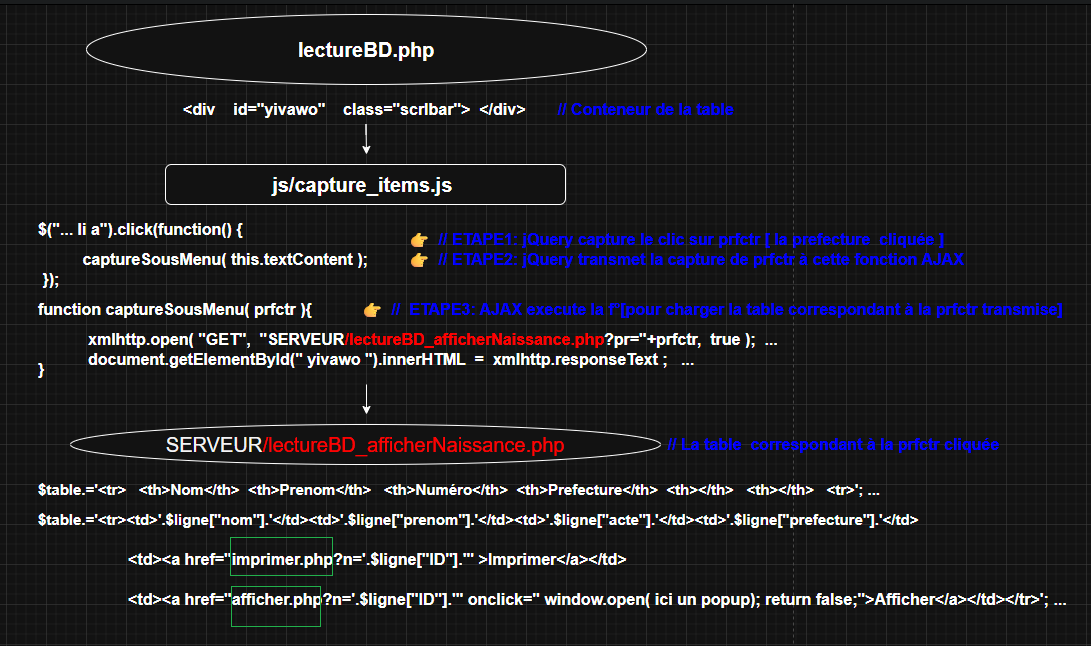
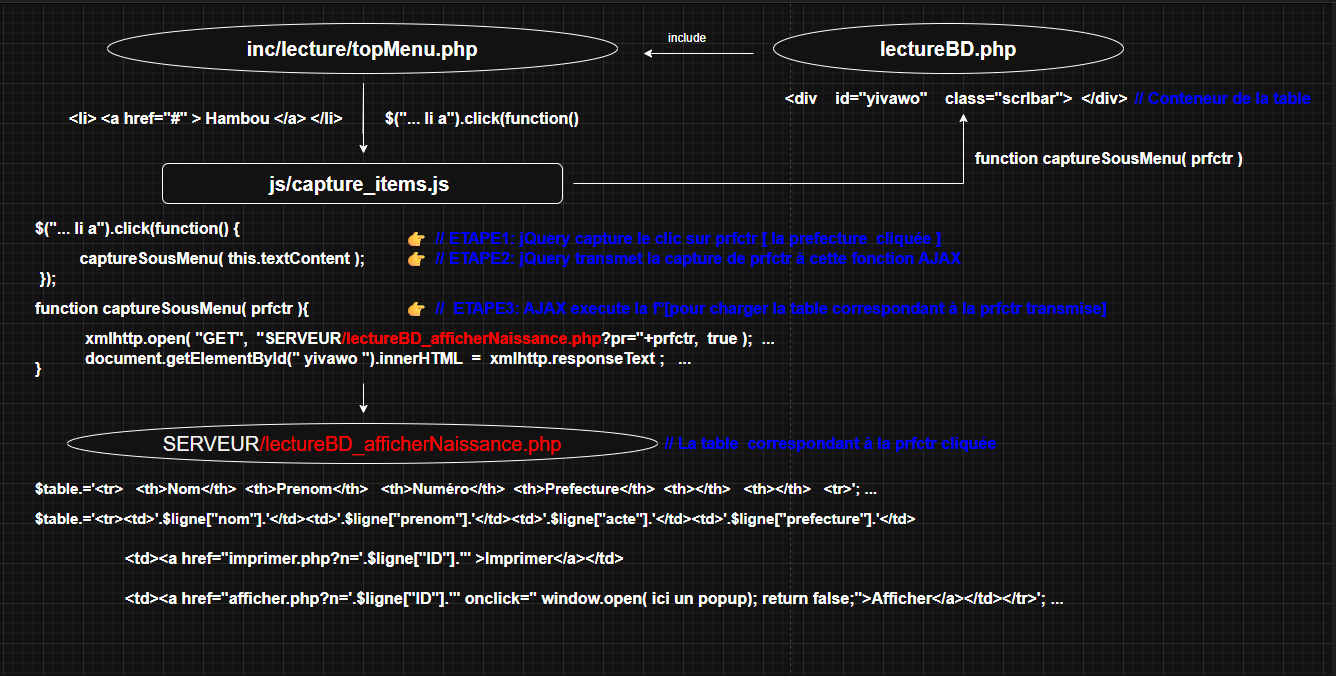
SPA manuel: Mise à jour 7.1 - Combinaison jQuery/Ajax - Il paraît que Vue.js le ferait beauoup mieux

diff --git a/index.html b/index.html
@@ -205,6 +205,7 @@
   
   
   <p class="img" id="affichelien"  style="background: #f7f7f9; width:94%;"><span >2. Page d'accueil (accueil.php)</span></p>
+  <p> La page d'accueil fonctionne en mode <b>SPA</b>: <b>S</b>ingle <b>P</b>age <b>A</b>pplication ( mais c'est une version à la main - sans framwork)</p>  
   <p><b><u>2.1 Ouverture de la table: "Afficher</u>"</b></p>
 
   <img src="uml/accueil/Lien_Afficher/affichelien.png" class="img" style="height:auto; padding:0;">
@@ -502,6 +503,14 @@
   
   <p><b><u>7.1 Afficher</u> (table)</b></p>
   <img src="uml/LectureBD/lectureBD.png" class="img"  style="height:auto; padding:0;"> 
+  <p class="img" <i style="width:90.25%; margin-bottom:0;">
+    Asynchronous loading: L'affichage de la table se fait par une combinaison <i style="color:#ececea">jQuery/</i><i style="color:#ececea">Ajax</i><br>
+     ✔ <i style="color:#ececea">jQuery</i> capture la péfecture : <i style="color:gray">inc/lecture/topMenu.php</i><br>
+	 ✔ <i style="color:#ececea">Ajax</i> charge  la table relative dans div#yivawo : <i style="color:gray">lectureBD.php</i><br><br>
+	Donc le pattern se résume ainsi: jQuery capture l'événement(le menu) et Ajax charge les données. Ils son complémentaires !<br>
+	 C'est exactement la base sur laquelle repose des framworks modernes comme <b>React</b> ou <b>Vue.js</b><br>
+	 Toutefois, il serait mieux de traduire ce jQury en version <b>Vue.js</b> moderne.
+  </p> 
   <img src="uml/LectureBD/lectureBD_afficher.png" class="img"  style="height:auto; padding:0; margin-bottom:0;">   
   <p class="img" <i style="width:90.5%">
      ✔ <i style="color:gray">window.open(...popup..)</i> est remplacé par la fonction <i style="color:gray">ouvrePop(\'afficher.php?n='.$ligne['ID'].'\')</i><br>
